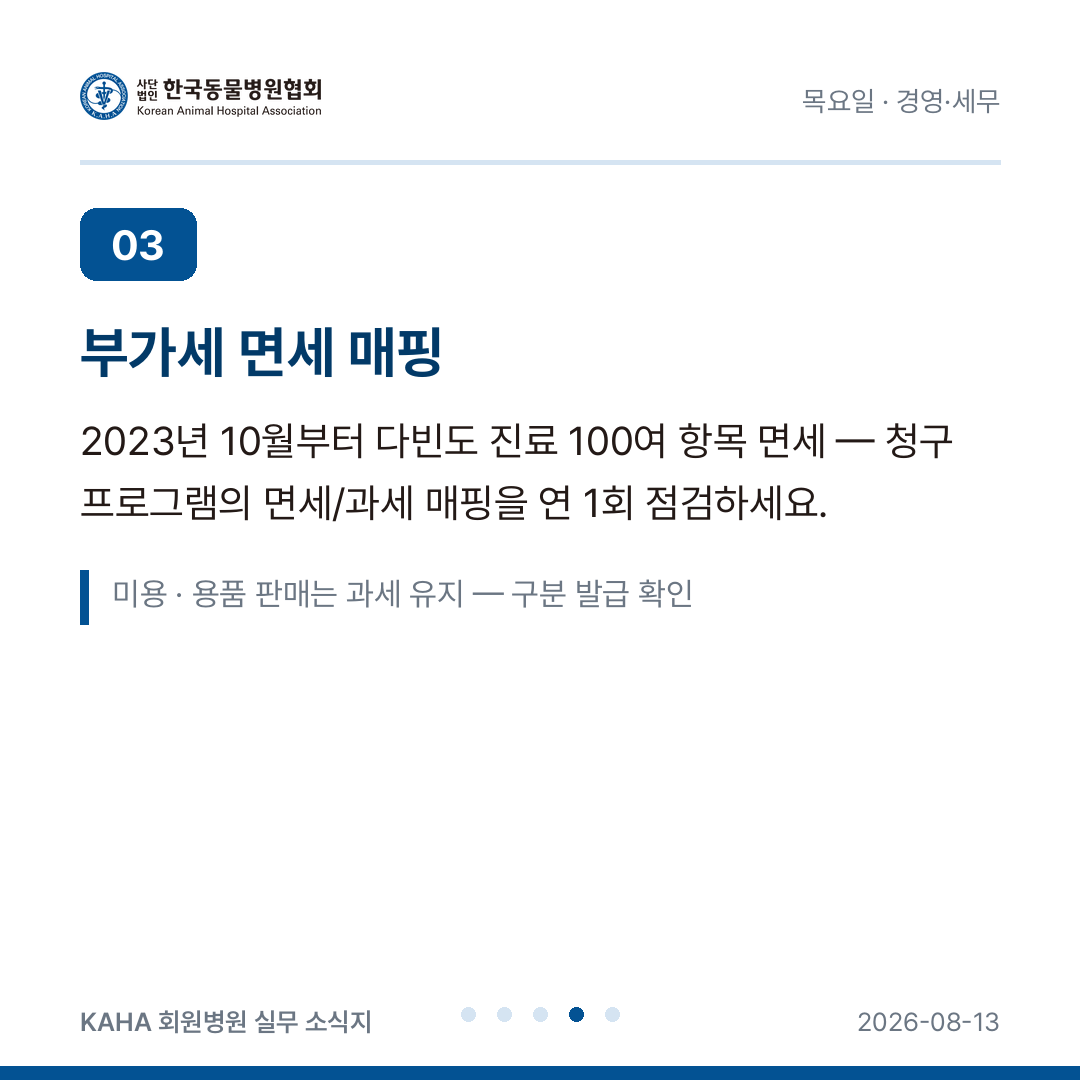
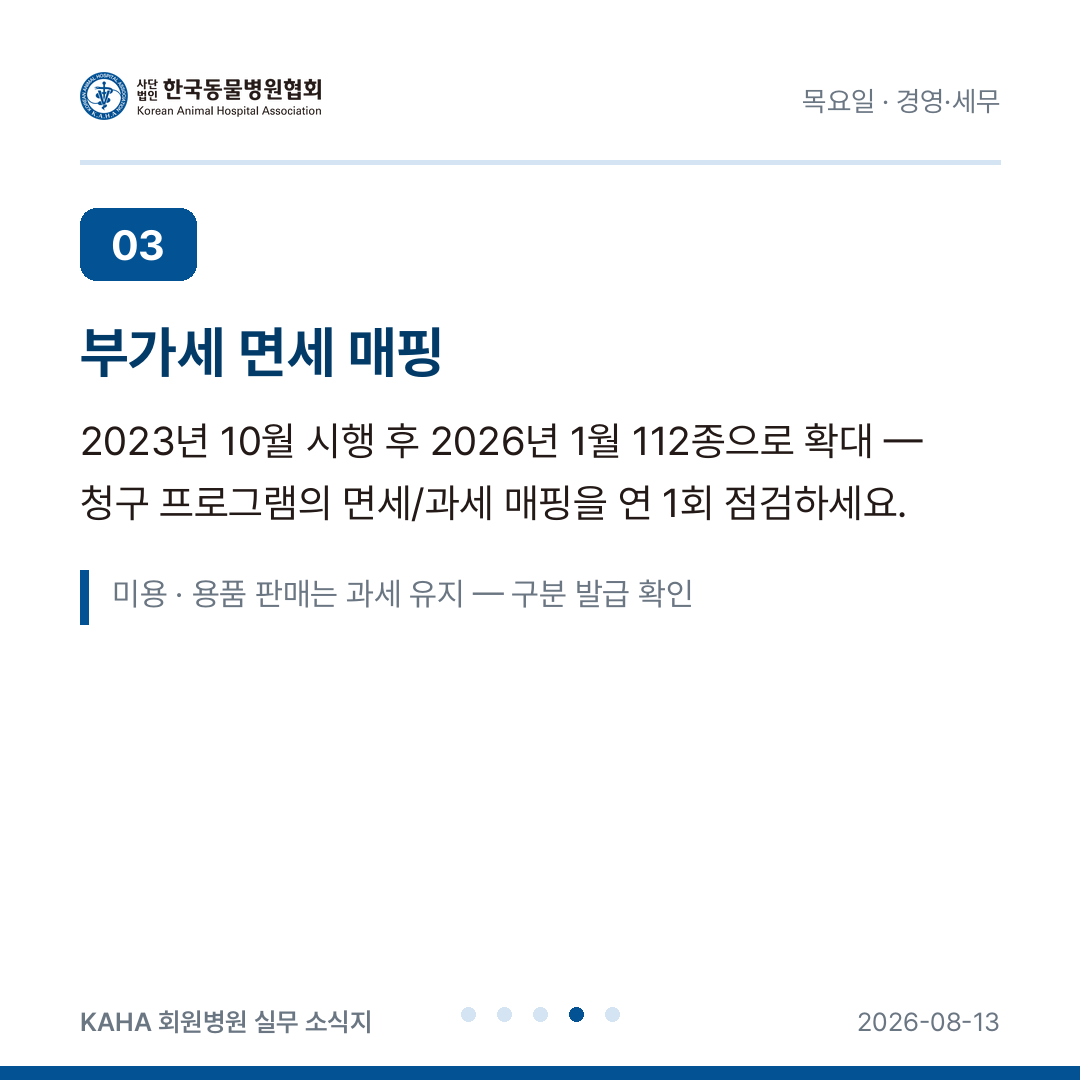
KAHA 소식지 2026-08-13 (목요일 경영·세무)
발행 전 재검증: 부가세 면세 대상이 2026.1.1부로 102종→112종 확대된
사실을 반영해 본문·팩트체크·인스타 카드뉴스 갱신. 나머지 항목은
재검증 결과 변경 없음 확인.

Changed region(s): [[0.0611, 0.3667, 0.8861, 0.4889]]

diff --git a/factcheck/2026-08-13.md b/factcheck/2026-08-13.md
@@ -1,16 +1,16 @@
 # 팩트체크 기록 — 2026-08-13 (목 · 경영·세무)
 
-검증일: 2026-08-09 · 검증 방법: 농림축산식품부·대한민국 정책브리핑·대한수의사회·전문지 웹 대조
+검증일: 2026-08-09 (1차) / 2026-08-13 (발행 전 재검증) · 검증 방법: 농림축산식품부·대한민국 정책브리핑·대한수의사회·기획재정부·전문지 웹 대조
 
 | # | 본문 주장 | 판정 | 근거 |
 |---|---|---|---|
-| 1 | 진료비 게시제: 2023.1.5 수의사 2인 이상 병원 시행 → 2024.1.5 모든 동물병원 확대 | ✅ 확인 | [대한수의사회 안내](https://kvma.or.kr/kvma_info?num=1120&tbl=0), [파이낸셜뉴스](https://www.fnnews.com/news/202312311000410844) |
+| 1 | 진료비 게시제: 2023.1.5 수의사 2인 이상 병원 시행 → 2024.1.5 모든 동물병원 확대 | ✅ 확인 (2026-08-13 재확인, 변경 없음) | [대한수의사회 안내](https://kvma.or.kr/kvma_info?num=1120&tbl=0), [파이낸셜뉴스](https://www.fnnews.com/news/202312311000410844) |
 | 2 | 출장진료전문병원은 게시 의무 제외 | ✅ 확인 (팩트체크 과정에서 본문에 추가) | [데일리벳](https://www.dailyvet.co.kr/news/policy/168545) |
-| 3 | 2025년 1월부터 게시 항목 20종으로 확대 (혈액화학검사, 전해질검사, 초음파, CT, MRI, 심장사상충 예방, 외부기생충 예방, 광범위 구충 8종 추가) | ✅ 확인 — **초안의 구 항목(11~12종) 기준 서술을 정정** | [대한민국 정책브리핑](https://www.korea.kr/news/policyNewsView.do?newsId=148933529), [데일리벳](https://www.dailyvet.co.kr/news/policy/222344) |
+| 3 | 2025년 1월부터 게시 항목 20종으로 확대 (혈액화학검사, 전해질검사, 초음파, CT, MRI, 심장사상충 예방, 외부기생충 예방, 광범위 구충 8종 추가) | ✅ 확인 — **초안의 구 항목(11~12종) 기준 서술을 정정**, 2026-08-13 재확인 결과 추가 확대 없음 | [대한민국 정책브리핑](https://www.korea.kr/news/policyNewsView.do?newsId=148933529), [데일리벳](https://www.dailyvet.co.kr/news/policy/222344) |
 | 4 | 기존 게시 항목: 초진·재진 진찰, 상담, 입원, 백신 5종(개 종합·고양이 종합·광견병·켄넬코프·인플루엔자), 전혈구 검사·판독, 엑스선 촬영·판독 | ✅ 확인 | 대한수의사회 안내 (위와 동일) |
 | 5 | 게시 방법: 접수창구·대기실 등 게시, 홈페이지 게시 시 초기 화면 접근 가능 요건, 미게시·초과 수취 시 과태료·시정명령 | ✅ 확인 | 수의사법 제20조 및 시행규칙 (law.go.kr), [정책브리핑 집중 단속 보도](https://korea.kr/news/policyNewsView.do?newsId=148924837) |
-| 6 | 중대진료 예상 진료비용 사전 고지(구두 등), 2023.1.5 시행 | ✅ 확인 | 수의사법 제19조 (law.go.kr) |
-| 7 | 2023.10.1부터 반려동물 다빈도 진료항목 100여 개 부가세 면제 | ✅ 확인 | [대한수의사회](https://www.kvma.or.kr/kvma_info?tbl=0&num=1256), [정책브리핑](https://www.korea.kr/news/policyNewsView.do?newsId=148920901), [농림축산식품부](https://www.mafra.go.kr/bbs/home/792/567706/artclView.do) |
+| 6 | 중대진료 예상 진료비용 사전 고지(구두 등), 2023.1.5 시행 | ✅ 확인 (2026-08-13 재확인: "구두 고지"는 서면동의와 별개의 독립 요건임을 재확인) | 수의사법 제19조 (law.go.kr), [데일리벳](https://www.dailyvet.co.kr/news/policy/178296) |
+| 7 | 2023.10.1부터 반려동물 다빈도 진료항목 부가세 면제, **2026.1.1부터 대상 102종 → 112종 확대**(구취·변비·식욕부진·간 종양·문맥전신단락·치아 파절·치주질환·잔존유치·구강 종양·구강악안면 외상 10종 추가) | ✅ 확인 — **2026-08-13 재검증 과정에서 "100여 개"를 "112종(2026.1 확대)"으로 정정** | [서울경제](https://www.sedaily.com/NewsView/2GXRROY826), 기획재정부 「2026년부터 이렇게 달라집니다」(2025.12.31), [대한수의사회](https://www.kvma.or.kr/kvma_info?tbl=0&num=1256) |
 | 8 | 면세 범위: 예방 목적 중심 → 치료 목적 다빈도 진료까지 확대 (진찰·투약·검사, 외이염, 아토피성 피부염, 결막염, 슬개골 탈구 수술, 발치, 스케일링 등) | ✅ 확인 | 정책브리핑 (위와 동일) |
 | 9 | 미용·용품 판매 등은 과세 유지, 면세·과세 겸업 시 매입세액 안분 필요 | ✅ 확인 (일반 부가세법 원리) | 부가가치세법 (law.go.kr) — 개별 적용은 세무사 확인 권고 문구 유지 |
 
@@ -19,3 +19,4 @@
 - **게시 항목을 2025년 확대된 20종 기준으로 전면 갱신** (초안은 2024년 확대 시점의 구 항목만 기재).
 - 시행일을 정확한 날짜(2023.1.5 / 2024.1.5)로 명기, 출장진료전문병원 제외 추가.
 - 체크리스트에 "20종 기준 게시물 갱신 여부" 항목 추가.
+- **(2026-08-13 발행 전 재검증)** 부가세 면세 대상이 2026년 1월 1일부로 102종에서 112종으로 확대된 사실을 반영해 "다빈도 진료항목 100여 개"를 "112종(2026.1 확대)"으로 정정. 참고 출처에 기획재정부 자료 추가, 체크리스트에 112종 반영 여부 확인 항목 추가, 인스타 카드뉴스(3번 카드)·캡션도 동일하게 갱신.

diff --git a/issues/2026-08-13.md b/issues/2026-08-13.md
@@ -23,7 +23,7 @@
 
 ## 반려동물 진료 부가세 면제 — 청구 항목 매핑 점검
 
-2023년 10월부터 진찰·입원, 예방접종, 중성화수술, 병리검사 등 **다빈도 진료항목 100여 개**에 대해 부가가치세가 면제되었습니다. 실무 포인트:
+2023년 10월부터 진찰·입원, 예방접종, 중성화수술, 병리검사 등 다빈도 진료항목에 대해 부가가치세가 면제되고 있으며, **2026년 1월 1일부터 대상이 102종에서 112종으로 확대**되었습니다(구취·변비·식욕부진·간 종양·문맥전신단락·치아 파절·치주질환·잔존유치·구강 종양·구강악안면 외상 등 10종 추가). 실무 포인트:
 
 - 청구 프로그램의 항목 코드가 **면세/과세 구분과 정확히 매핑**되어 있는지 연 1회 이상 점검
 - 면세·과세 겸업 사업자로서 **매입세액 안분 계산**이 달라지므로 장비 구입 등 큰 지출 전 세무사와 협의
@@ -36,12 +36,14 @@
 - [ ] 홈페이지 게시를 병행한다면 초기 화면에서 접근 가능한가
 - [ ] 중대진료 예상 비용 고지가 동의서·차트에 기록되는가
 - [ ] 청구 항목의 면세/과세 매핑을 최근 1년 내 점검했는가
+- [ ] 2026년 1월 확대된 면세 대상 112종(구취·변비·식욕부진 등 10종 추가분 포함) 반영 여부 확인했는가
 
 ## 참고
 
 - 농림축산식품부 진료비용 게시 안내 및 「동물병원 진료비 현황 공개 시스템」
 - 국가법령정보센터(law.go.kr): 수의사법 및 시행규칙
 - 부가세 면제 대상 진료용역 고시(농림축산식품부 고시)
+- 기획재정부 「2026년부터 이렇게 달라집니다」(2025.12.31 발표) — 부가세 면제 대상 102종→112종 확대
 
 ## 인스타그램 카드뉴스
 
@@ -59,8 +61,8 @@
 [KAHA 회원병원 실무 소식지] 진료비 게시 의무와 부가세 면세 항목 점검 (8/13 목 · 경영·세무)
 
 · 2025.1부터 게시 대상 20종으로 확대
+· 2026.1부터 부가세 면세 대상 112종으로 확대
 · 수가 변경 시 게시물 동시 갱신, 홈페이지는 초기화면 접근
-· 면세/과세 매핑 연 1회 점검
 
 전체 내용은 프로필 링크의 소식지에서 확인하세요.
 
